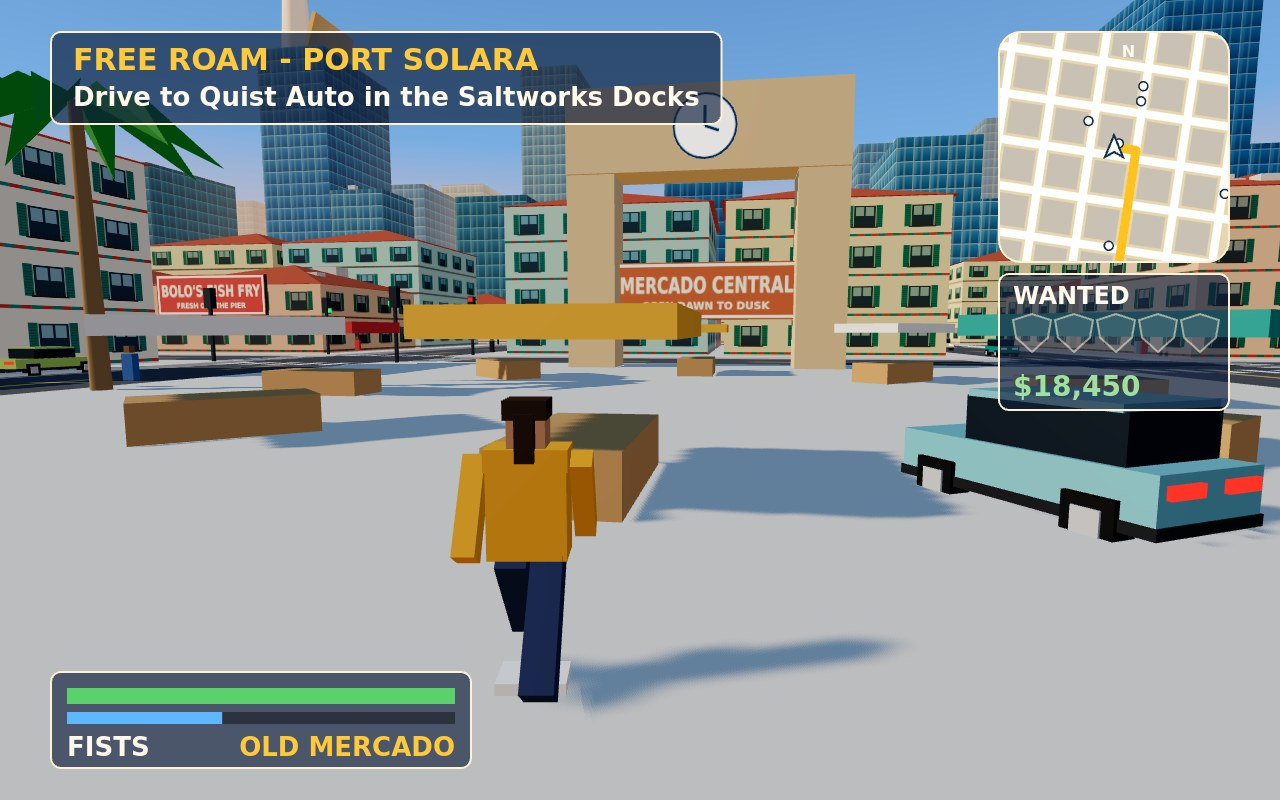
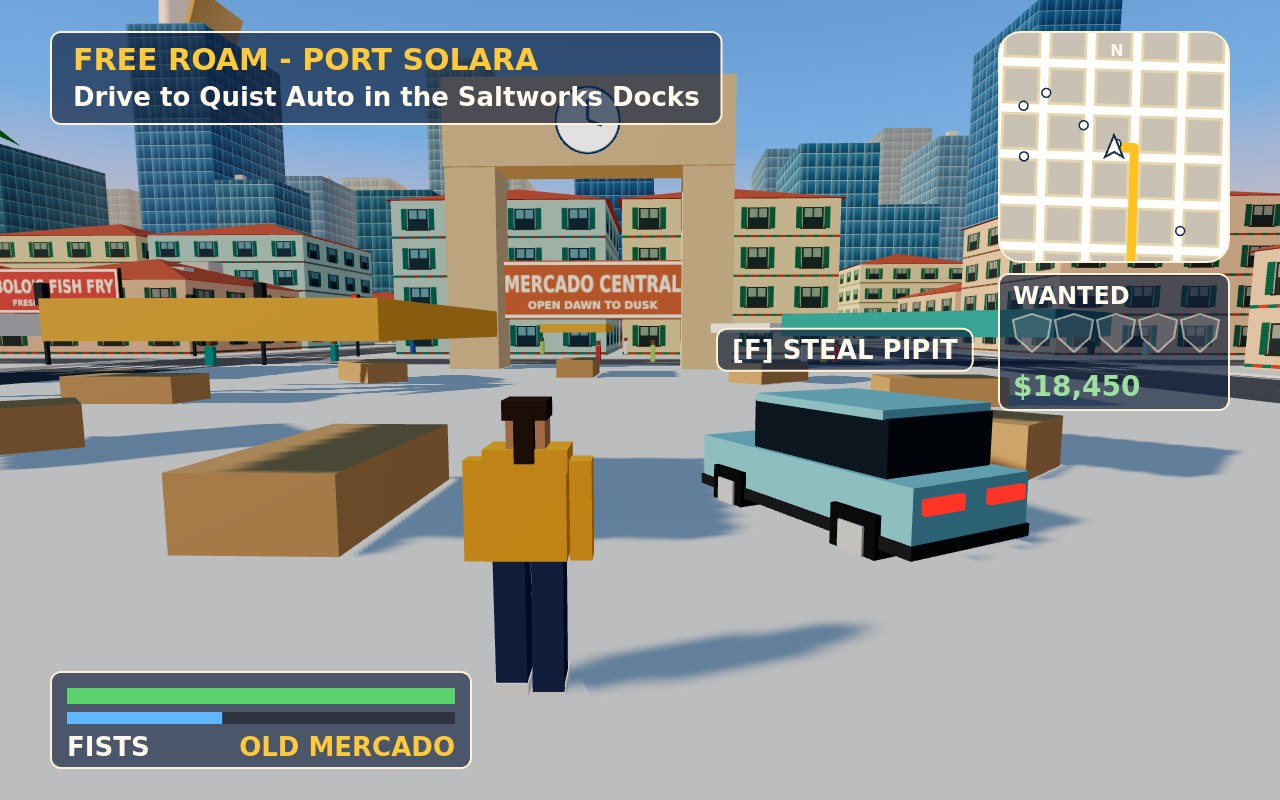
Shots: 2-street stages walkers under the Clock Arch and Wren in reach of the Pipit ([F] STEAL PIPIT over it); title strip says F STEAL/EXIT CAR; re-shot 2 and 4

diff --git a/game/src/dev/screenshot-scenes.js b/game/src/dev/screenshot-scenes.js
@@ -27,10 +27,12 @@ export const SCENES = {
   },
   // Wren on foot in Old Mercado's market square, the Clock Arch ahead and a Pipit to take.
   street(game, hold) {
+    hold([], 300);
+    game.crowd.gatherNear(150, 30, 12, 18);
     game.startPlay();
-    game.player.x = 151.5; game.player.z = 82; game.player.facing = 0.15;
-    game.chase.yaw = 0.15;
-    hold(['KeyW'], 70);
+    game.player.x = 153.5; game.player.z = 81.5; game.player.facing = 0.03;
+    game.chase.yaw = 0.03;
+    hold(['KeyW'], 85);
   },
   // The title over a drone orbit of the live city.
   title(game) {

diff --git a/game/src/ui/menus-and-map.js b/game/src/ui/menus-and-map.js
@@ -31,7 +31,7 @@ export function showTitleScreen(game, onNewGame) {
 
   const strip = document.createElement('div');
   strip.className = 'controls-strip';
-  strip.textContent = 'WASD MOVE · MOUSE LOOK · SHIFT RUN · F ENTER/EXIT CAR · SPACE HANDBRAKE';
+  strip.textContent = 'WASD MOVE · MOUSE LOOK · SHIFT RUN · F STEAL/EXIT CAR · SPACE HANDBRAKE';
   root.append(controls, menu, strip);
 
   const onKey = (e) => {
